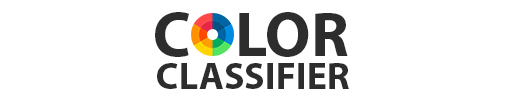
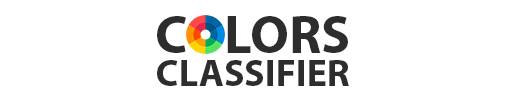
misc(images): update background image and add screenshots in README

Changed region(s): [[0.297, 0.12, 0.7129, 0.57], [0.297, 0.6, 0.7129, 0.9]]

diff --git a/README.md b/README.md
@@ -28,6 +28,11 @@ Make sure you have activated your venv first.
 colorsclassifier --help
 ```
 
+# Screenshots
+
+![GUI](https://github.com/MarcVillain/ColorsClassifier/raw/master/screenshots/gui.png)
+![CLI](https://github.com/MarcVillain/ColorsClassifier/raw/master/screenshots/cli.png)
+
 # Authors
 
 * Marc Villain <marc.villain@epita.fr>
